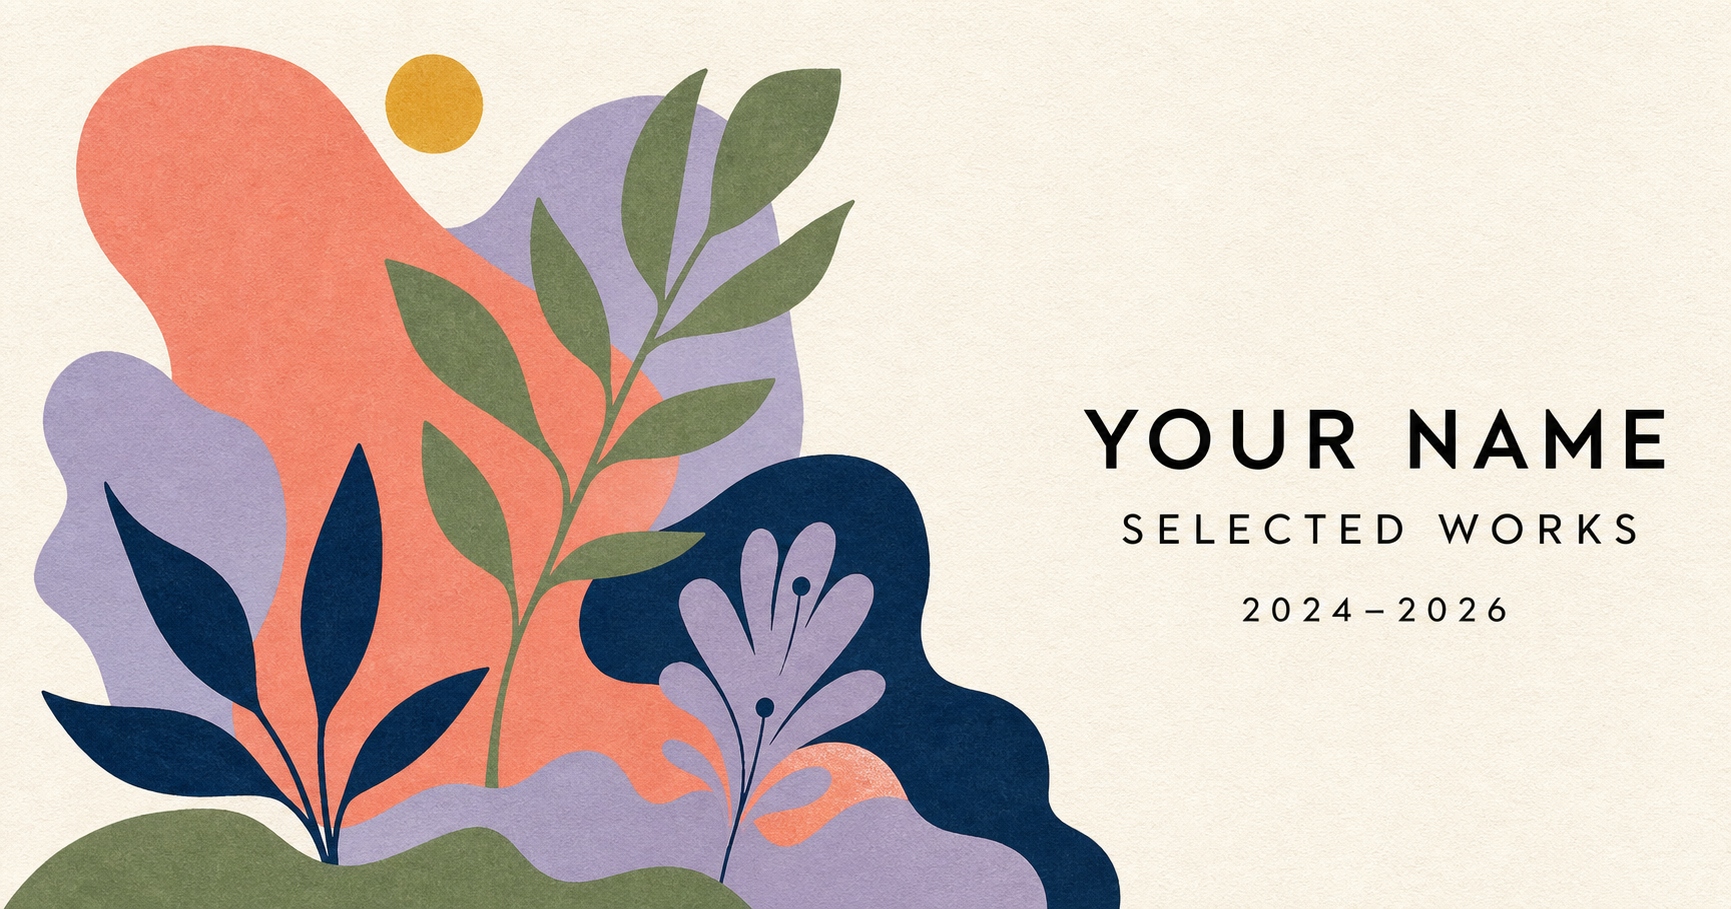
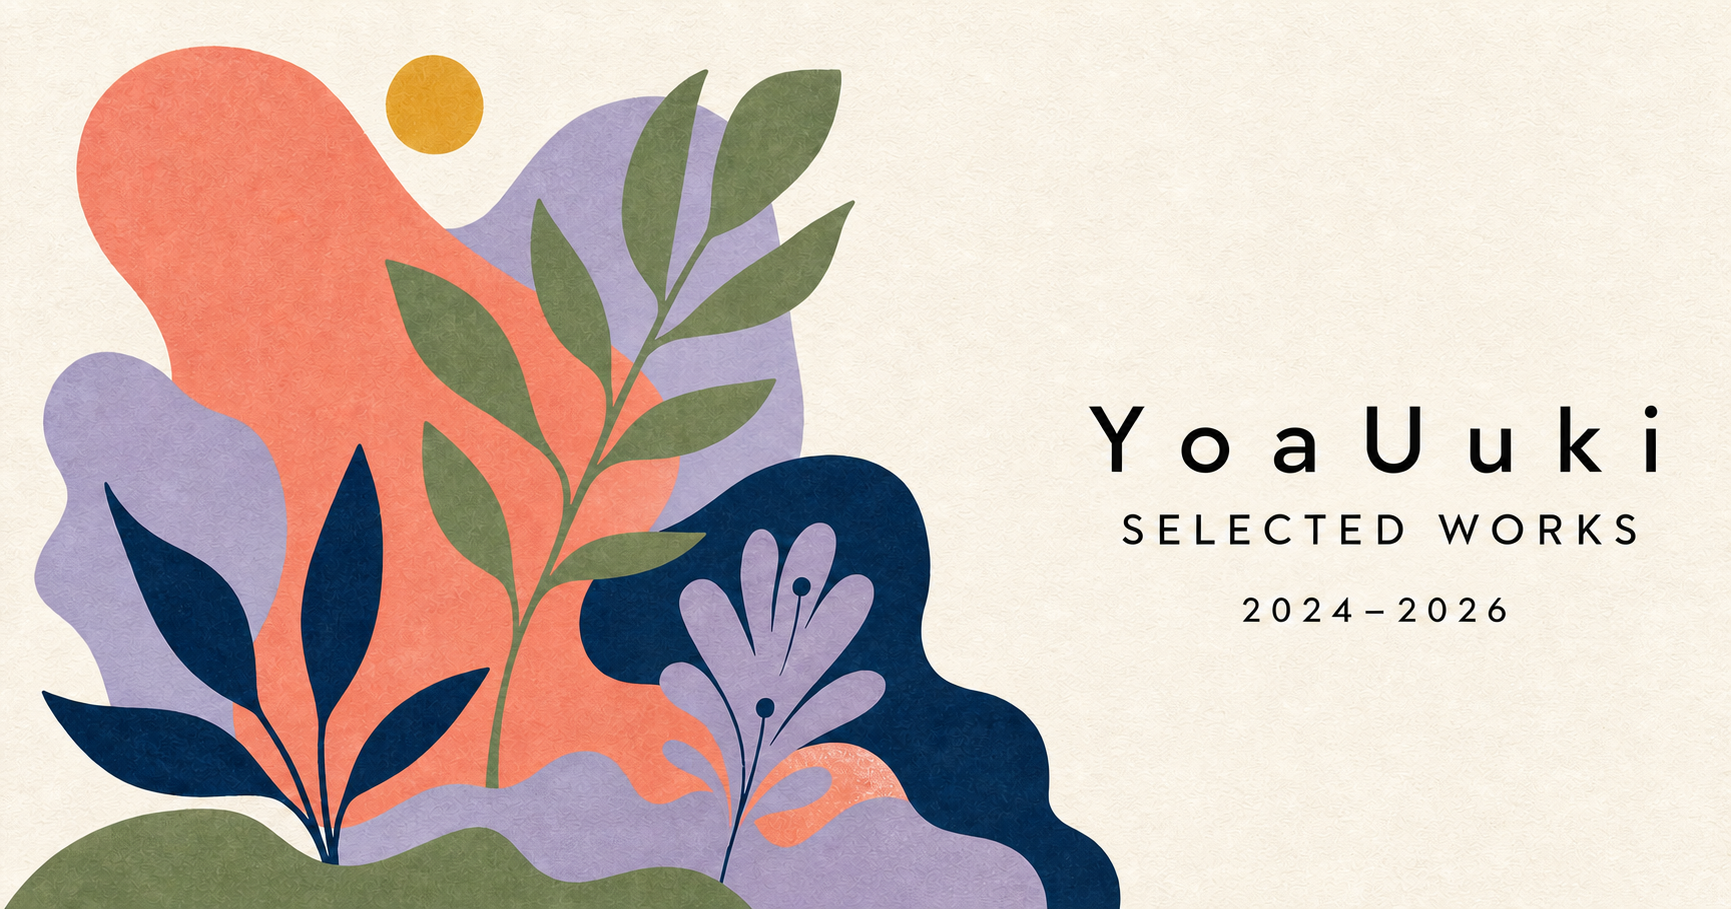
Set artist name to YoaUuki

diff --git a/app/layout.tsx b/app/layout.tsx
@@ -9,13 +9,13 @@ const socialImage = new URL(`${basePath}/og.png`, baseUrl).toString();
 export const metadata: Metadata = {
   metadataBase: baseUrl,
   title: {
-    default: "YOUR NAME - Artist",
-    template: "%s - YOUR NAME",
+    default: "YoaUuki - Artist",
+    template: "%s - YoaUuki",
   },
   description:
     "A minimal, image-first archive of selected works from an independent illustration practice.",
   openGraph: {
-    title: "YOUR NAME - Selected Works",
+    title: "YoaUuki - Selected Works",
     description:
       "Selected works, archive notes, artist profile, and contact information.",
     type: "website",
@@ -25,13 +25,13 @@ export const metadata: Metadata = {
         url: socialImage,
         width: 1732,
         height: 908,
-        alt: "YOUR NAME - Selected Works 2024-2026",
+        alt: "YoaUuki - Selected Works 2024-2026",
       },
     ],
   },
   twitter: {
     card: "summary_large_image",
-    title: "YOUR NAME - Selected Works",
+    title: "YoaUuki - Selected Works",
     description:
       "Selected works from an independent illustration practice.",
     images: [socialImage],

diff --git a/content/portfolio.ts b/content/portfolio.ts
@@ -1,10 +1,10 @@
 /**
  * 主页内容都集中在这里。
- * 把 YOUR NAME、城市、邮箱和简介替换成你的真实信息即可。
+ * 把城市、邮箱和简介替换成你的真实信息即可。
  * 上传作品的方法见项目根目录 ARTWORKS.md。
  */
 export const portfolio = {
-  name: "YOUR NAME / 你的名字",
+  name: "YoaUuki",
   year: "2026",
   range: "2024—2026",
   eyebrow: "ILLUSTRATION ARTIST · BASED IN YOUR CITY",

diff --git a/README.md b/README.md
@@ -6,7 +6,7 @@
 
 个人信息和作品数据都在 [`content/portfolio.ts`](content/portfolio.ts)：
 
-- 把 `YOUR NAME / 你的名字` 替换为你的姓名或艺名。
+- 艺术家名称当前设置为 `YoaUuki`。
 - 修改所在城市、邮箱、艺术家简介与合作类型。
 - 按照 [`ARTWORKS.md`](ARTWORKS.md) 上传真实作品。
 
